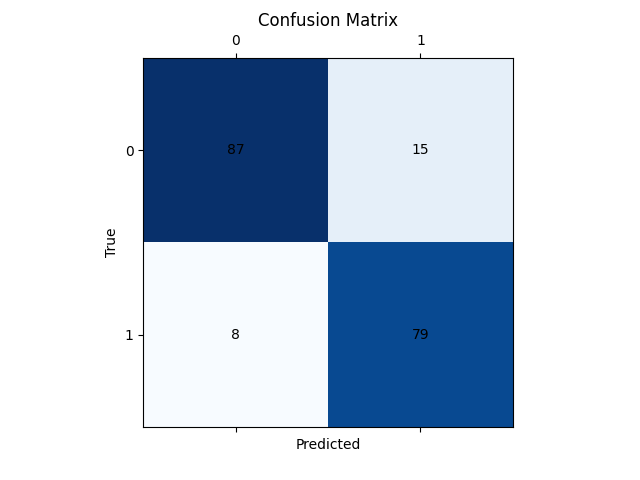
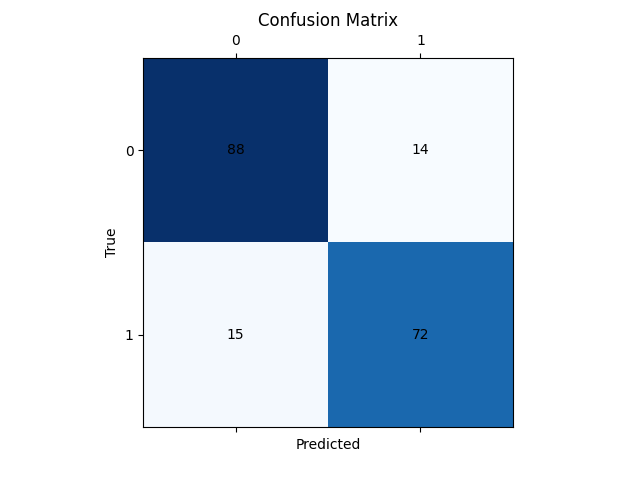
aws + s3 + svc

Changed region(s): [[0.5, 0.5, 0.8125, 0.9062], [0.6562, 0.2812, 0.6875, 0.3125], [0.3438, 0.6875, 0.375, 0.7188]]

diff --git a/machine_fault_dags.py b/machine_fault_dags.py
@@ -33,14 +33,16 @@ x = sd.fit_transform(x)
 x_train,x_test,y_train,y_test = train_test_split(x,y,test_size=0.2,random_state=42)
  
 
-n_estimators = 100
-max_depth = 3
+gm = 1.5
+c = 0.1
+kernel = 'poly'
 
-mlflow.set_experiment('machine_fault_RD')
+mlflow.set_experiment('machine_fault_SVC')
 
-with mlflow.start_run(run_name='Rd with est = 100'):
+with mlflow.start_run(run_name='svc with kern = poly'):
 
-    model = RandomForestClassifier(n_estimators=n_estimators,max_depth=max_depth)
+    model = SVC(gamma=gm,kernel=kernel,C=c)
+    
 
 
 
@@ -69,8 +71,9 @@ with mlflow.start_run(run_name='Rd with est = 100'):
     # mlflow.log_metric('Confusion_metrics',CM)
     # mlflow.log_metric('Confusion_report',CR)
 
-    mlflow.log_param('n_estimators',n_estimators)
-    mlflow.log_param('max_depth',max_depth)
+    mlflow.log_param('Gamma',gm)
+    mlflow.log_param('C',c)
+    mlflow.log_param('kernel',kernel)
 
     mlflow.sklearn.log_model(model,'Decision tree model')
 
